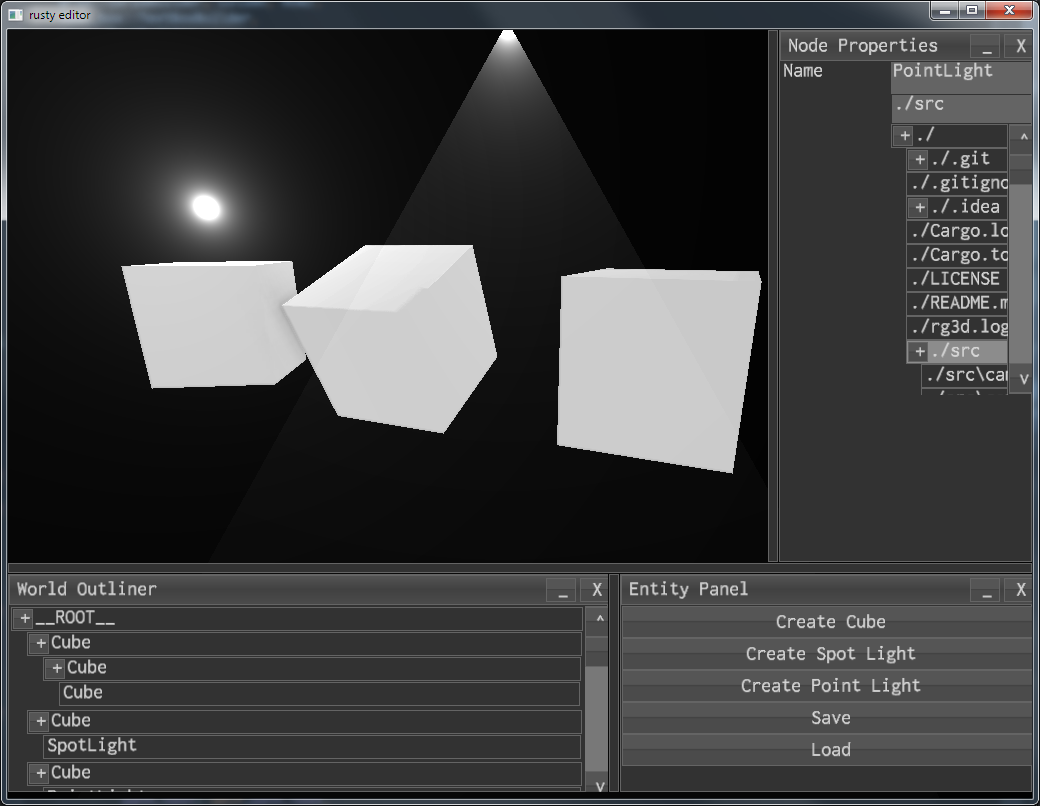
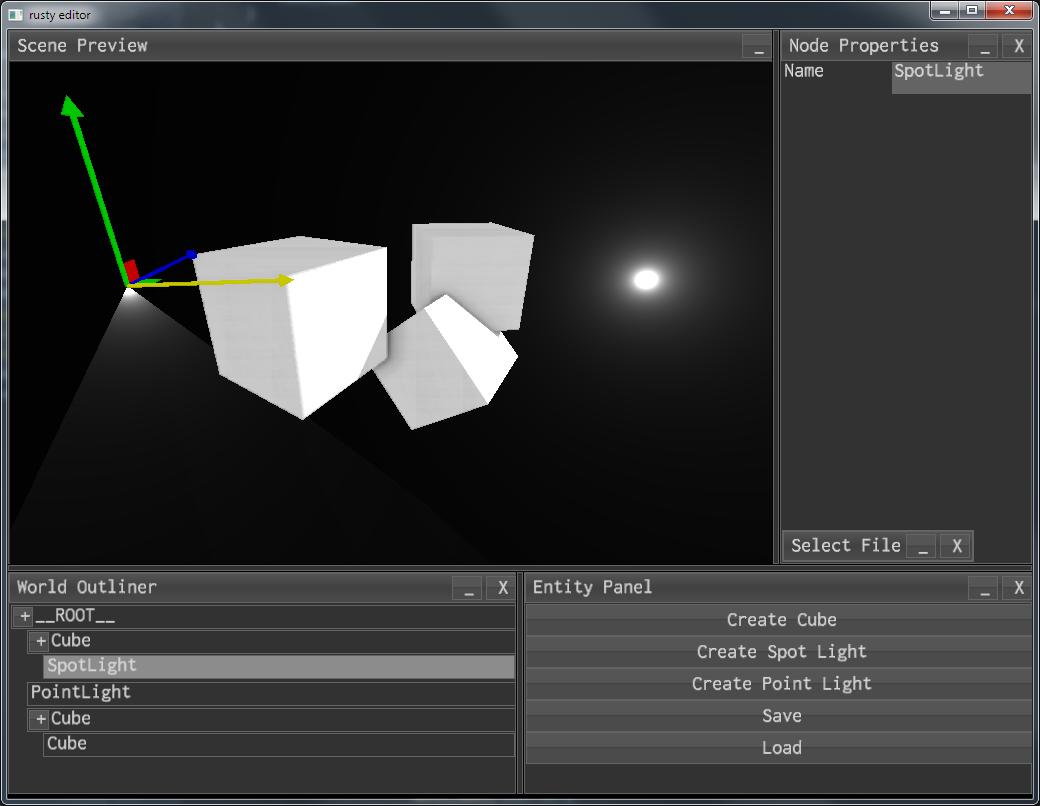
added docking manager resize when window resizes

Changed region(s): [[0.0, 0.0, 1.0, 1.0], [0.0, 0.3102, 0.0308, 0.3722], [0.0, 0.4653, 0.0308, 0.4963]]

diff --git a/src/main.rs b/src/main.rs
@@ -15,8 +15,6 @@ use rg3d::{
         Event,
         WindowEvent,
         DeviceEvent,
-        VirtualKeyCode,
-        ElementState,
     },
     event_loop::{
         EventLoop,
@@ -683,8 +681,6 @@ impl Editor {
 
     fn add_command(&mut self, engine: &mut GameEngine, mut command: Command) {
         execute_command(&self.scene, engine, &mut command, self.message_sender.clone(), self.node_editor.node);
-        let scene = &mut engine.scenes[self.scene.scene];
-        let graph = &mut scene.graph;
         let dropped_commands = self.command_stack.add_command(command);
         for command in dropped_commands {
             println!("Finalizing command {:?}", command);
@@ -809,7 +805,11 @@ fn main() {
                         *control_flow = ControlFlow::Exit
                     }
                     WindowEvent::Resized(size) => {
-                        engine.renderer.set_frame_size(dbg!(size.into()));
+                        engine.renderer.set_frame_size(size.into());
+                        engine.user_interface
+                            .node_mut(editor.docking_manager)
+                            .set_width_mut(size.width as f32)
+                            .set_height_mut(size.height as f32);
                     }
                     _ => ()
                 }

diff --git a/src/camera.rs b/src/camera.rs
@@ -16,13 +16,6 @@ use rg3d::{
         aabb::AxisAlignedBoundingBox
     },
     core::pool::Handle,
-    event::{
-        WindowEvent,
-        DeviceEvent,
-        VirtualKeyCode,
-        ElementState,
-        MouseScrollDelta,
-    },
     gui::message::{MouseButton, KeyCode},
 };
 use std::{

diff --git a/src/interaction.rs b/src/interaction.rs
@@ -17,7 +17,6 @@ use rg3d::{
         mesh::MeshBuilder,
         transform::{
             TransformBuilder,
-            Transform,
         },
         graph::Graph,
     },
